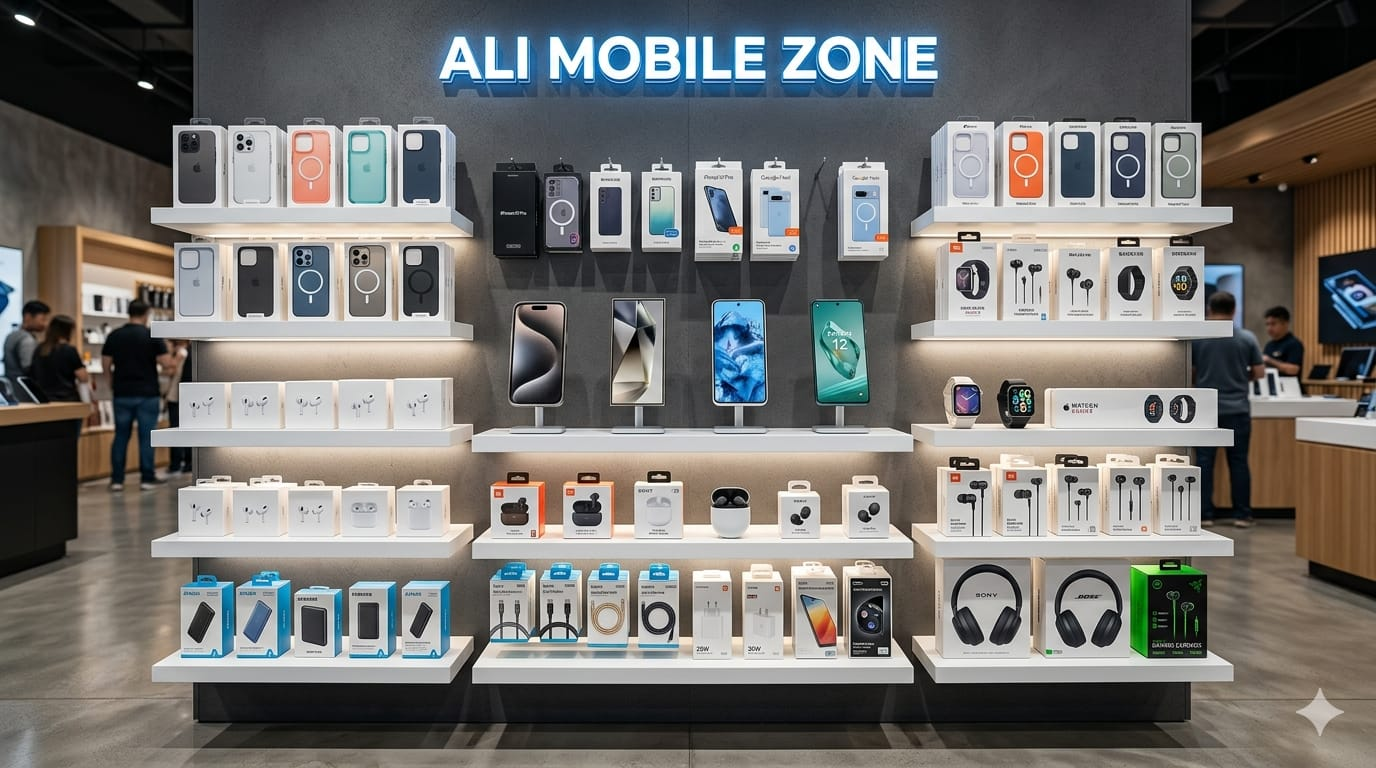
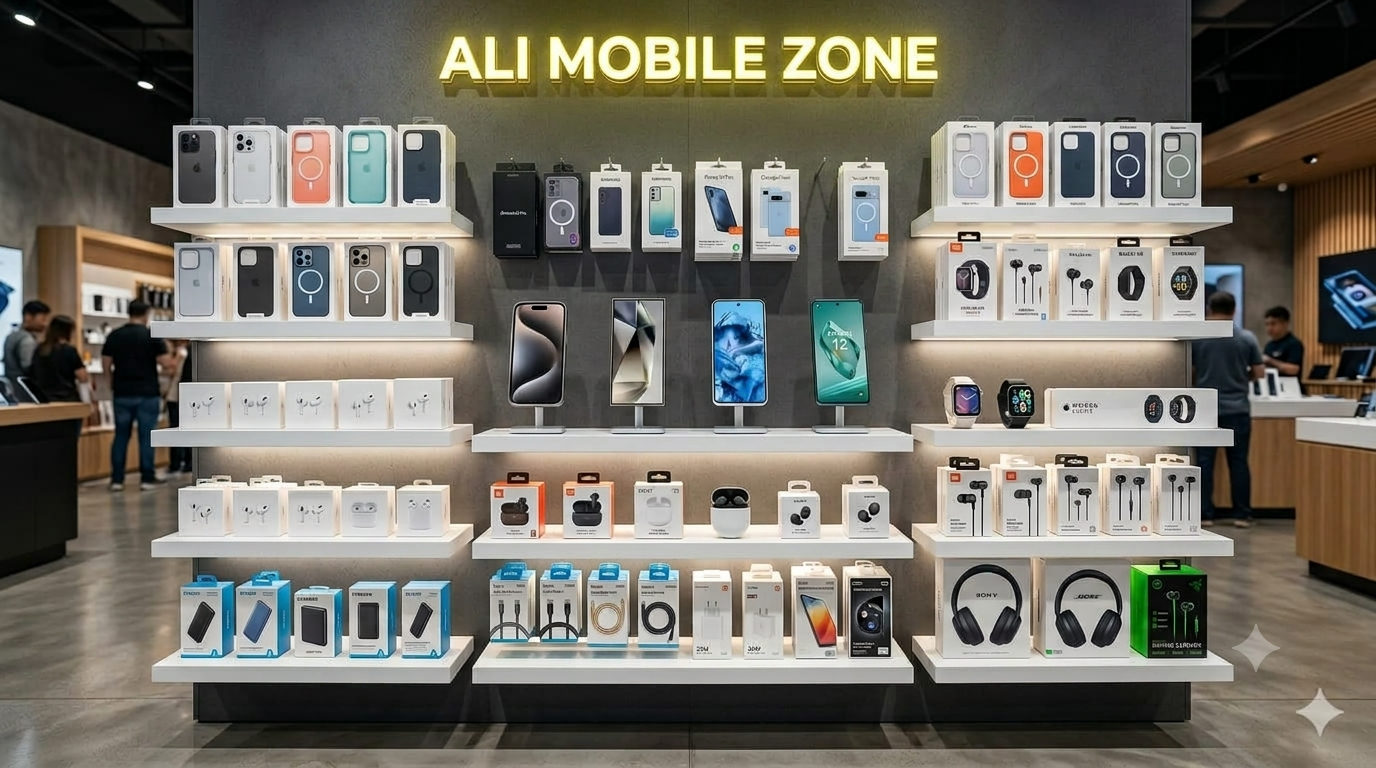
Add product variants, loading skeletons, and smooth page transitions

diff --git a/src/components/Skeleton.tsx b/src/components/Skeleton.tsx
@@ -1,0 +1,92 @@
+export function Skeleton({ className = "" }: { className?: string }) {
+  return (
+    <div
+      className={`animate-pulse rounded-xl bg-foreground/10 ${className}`}
+      style={{ animation: "skeleton-pulse 1.5s ease-in-out infinite" }}
+    />
+  );
+}
+
+export function ProductCardSkeleton() {
+  return (
+    <div className="rounded-2xl border border-glass-border glass-card overflow-hidden">
+      <Skeleton className="aspect-square rounded-none" />
+      <div className="space-y-2 p-4">
+        <Skeleton className="h-3 w-16" />
+        <Skeleton className="h-4 w-full" />
+        <Skeleton className="h-4 w-3/4" />
+        <div className="flex items-center justify-between pt-2">
+          <Skeleton className="h-5 w-20" />
+          <Skeleton className="h-8 w-8 rounded-lg" />
+        </div>
+      </div>
+    </div>
+  );
+}
+
+export function ProductDetailSkeleton() {
+  return (
+    <div className="bg-gradient-to-b from-secondary/40 to-background">
+      <div className="mx-auto max-w-7xl px-4 py-6">
+        <Skeleton className="mb-6 h-4 w-64" />
+        <div className="grid gap-8 md:grid-cols-2">
+          <div>
+            <Skeleton className="aspect-square rounded-2xl" />
+            <div className="mt-3 flex gap-2">
+              <Skeleton className="h-20 w-20 rounded-lg" />
+              <Skeleton className="h-20 w-20 rounded-lg" />
+              <Skeleton className="h-20 w-20 rounded-lg" />
+            </div>
+          </div>
+          <div className="space-y-4">
+            <Skeleton className="h-6 w-24" />
+            <Skeleton className="h-10 w-full" />
+            <Skeleton className="h-4 w-48" />
+            <Skeleton className="h-8 w-36" />
+            <Skeleton className="h-4 w-32" />
+            <div className="space-y-2 pt-4">
+              <Skeleton className="h-3 w-full" />
+              <Skeleton className="h-3 w-full" />
+              <Skeleton className="h-3 w-3/4" />
+            </div>
+            <div className="space-y-2 pt-4">
+              {[1, 2, 3, 4].map((i) => (
+                <Skeleton key={i} className="h-5 w-full" />
+              ))}
+            </div>
+            <div className="grid grid-cols-2 gap-2 pt-4">
+              {[1, 2, 3, 4].map((i) => (
+                <Skeleton key={i} className="h-12 rounded-lg" />
+              ))}
+            </div>
+            <div className="flex gap-4 pt-4">
+              <Skeleton className="h-12 flex-1 rounded-lg" />
+              <Skeleton className="h-12 flex-1 rounded-lg" />
+            </div>
+          </div>
+        </div>
+      </div>
+    </div>
+  );
+}
+
+export function ProductsPageSkeleton() {
+  return (
+    <div className="mx-auto max-w-7xl px-4 py-8">
+      <div className="mb-6">
+        <Skeleton className="h-8 w-48" />
+        <Skeleton className="mt-1 h-4 w-32" />
+      </div>
+      <div className="grid gap-6 md:grid-cols-[240px_1fr]">
+        <div className="hidden md:block space-y-4">
+          <Skeleton className="h-64 rounded-2xl" />
+        </div>
+        <div className="grid grid-cols-2 gap-4 md:grid-cols-3 lg:grid-cols-4">
+          {Array.from({ length: 8 }).map((_, i) => (
+            <ProductCardSkeleton key={i} />
+          ))}
+        </div>
+      </div>
+    </div>
+  );
+}

diff --git a/src/routes/products.$id.tsx b/src/routes/products.$id.tsx
@@ -19,10 +19,12 @@ import {
 import { toast } from "sonner";
 import { ProductImage } from "@/components/ProductImage";
 import { ProductCard } from "@/components/ProductCard";
+import { ProductDetailSkeleton } from "@/components/Skeleton";
 import { useCart, useProduct, useProducts, useWishlist, formatPrice } from "@/lib/store";
 import { waProduct } from "@/lib/whatsapp";
 
 export const Route = createFileRoute("/products/$id")({
+  pendingComponent: ProductDetailSkeleton,
   component: ProductDetail,
 });
 
@@ -153,8 +155,15 @@ function ProductDetail() {
   const { add } = useCart();
   const { has, toggle } = useWishlist();
   const [qty, setQty] = useState(1);
+  const [selectedVariant, setSelectedVariant] = useState(0);
 
   if (!product) throw notFound();
+
+  const variants = product.variants;
+  const activeVariant = variants?.[selectedVariant];
+  const displayPrice = activeVariant?.price ?? product.price;
+  const displayStock = activeVariant?.stock ?? product.stock;
+  const displayImage = activeVariant?.image ?? product.image;
 
   const detail = PRODUCT_DETAILS[product.id];
   const longDesc = detail?.description ?? product.description;
@@ -170,8 +179,8 @@ function ProductDetail() {
     .slice(0, 4);
   const wished = has(product.id);
 
-  const originalPrice = Math.round(product.price / 0.9);
-  const savings = originalPrice - product.price;
+  const originalPrice = Math.round(displayPrice / 0.9);
+  const savings = originalPrice - displayPrice;
 
   return (
     <div className="bg-gradient-to-b from-secondary/40 to-background">
@@ -210,7 +219,7 @@ function ProductDetail() {
               </button>
               <div className="aspect-square overflow-hidden">
                 <ProductImage
-                  src={product.image}
+                  src={displayImage}
                   alt={product.name}
                   className="h-full w-full object-contain p-8 transition-transform duration-500 group-hover:scale-110"
                 />
@@ -220,7 +229,7 @@ function ProductDetail() {
             <div className="mt-3 flex gap-2">
               <div className="h-20 w-20 overflow-hidden rounded-lg border-2 border-gold bg-background/50">
                 <ProductImage
-                  src={product.image}
+                  src={displayImage}
                   alt={product.name}
                   className="h-full w-full object-contain p-2"
                 />
@@ -237,6 +246,33 @@ function ProductDetail() {
               {product.name}
             </h1>
 
+            {variants && variants.length > 0 && (
+              <div className="mt-4">
+                <p className="mb-2 text-xs font-bold uppercase tracking-wider text-foreground">
+                  {variants[0].label.includes("Strap") ? "Strap Color" : "Color"}:
+                  <span className="ml-1 text-amber">{activeVariant?.label}</span>
+                </p>
+                <div className="flex flex-wrap gap-2">
+                  {variants.map((v, idx) => (
+                    <button
+                      key={v.label}
+                      onClick={() => setSelectedVariant(idx)}
+                      className={`rounded-lg border px-4 py-2 text-xs font-bold transition-all ${
+                        idx === selectedVariant
+                          ? "border-amber bg-amber text-navy shadow-[0_0_12px_color-mix(in_oklab,_var(--amber),_30%)]"
+                          : "border-glass-border bg-background/50 text-foreground hover:border-amber/40 hover:bg-amber/10"
+                      }`}
+                    >
+                      {v.label}
+                      {v.price && v.price !== product.price && (
+                        <span className="ml-1">(+Rs.{v.price - product.price})</span>
+                      )}
+                    </button>
+                  ))}
+                </div>
+              </div>
+            )}
+
             {/* Rating */}
             <div className="mt-3 flex items-center gap-2">
               <div className="flex">
@@ -252,7 +288,7 @@ function ProductDetail() {
             {/* Price */}
             <div className="mt-5 flex flex-wrap items-baseline gap-3">
               <span className="text-4xl font-extrabold text-foreground">
-                {formatPrice(product.price)}
+                {formatPrice(displayPrice)}
               </span>
               <span className="text-lg text-muted-foreground line-through">
                 {formatPrice(originalPrice)}
@@ -262,10 +298,10 @@ function ProductDetail() {
               </span>
             </div>
             <div className="mt-1 text-sm">
-              {product.stock > 5 ? (
+              {displayStock > 5 ? (
                 <span className="font-bold text-amber">✓ In Stock — Ready to ship</span>
-              ) : product.stock > 0 ? (
-                <span className="font-bold text-destructive">Hurry! Only {product.stock} left</span>
+              ) : displayStock > 0 ? (
+                <span className="font-bold text-destructive">Hurry! Only {displayStock} left</span>
               ) : (
                 <span className="font-bold text-destructive">Out of Stock</span>
               )}
@@ -332,7 +368,7 @@ function ProductDetail() {
             {/* CTAs */}
             <div className="mt-4 flex flex-col gap-2 sm:flex-row">
               <button
-                disabled={product.stock === 0}
+                disabled={displayStock === 0}
                 onClick={() => {
                   add(product.id, qty);
                   toast.success(`Added ${qty} to cart 🛒`);

diff --git a/src/lib/products.ts b/src/lib/products.ts
@@ -1,3 +1,10 @@
+export type ProductVariant = {
+  label: string;
+  price?: number;
+  stock?: number;
+  image?: string;
+};
+
 export type Product = {
   id: string;
   name: string;
@@ -7,6 +14,7 @@ export type Product = {
   image: string;
   stock: number;
   description: string;
+  variants?: ProductVariant[];
 };
 
 export const PRODUCTS_VERSION = 2;
@@ -1329,6 +1337,11 @@ export const SEED_PRODUCTS: Product[] = [
     image: "https://img.drz.lazcdn.com/g/kf/Sa7184fc13fda46a3b92030daebce3985L.jpg_720x720q80.jpg_.webp",
     stock: 12,
     description: "T800 Ultra smart watch with premium design and features.",
+    variants: [
+      { label: "Black Strap", stock: 5 },
+      { label: "Silver Strap", stock: 4 },
+      { label: "Gold Strap", stock: 3 },
+    ],
   },
   {
     id: "t900-ultra",
@@ -1481,6 +1494,12 @@ export const SEED_PRODUCTS: Product[] = [
     image: "https://img.drz.lazcdn.com/static/pk/p/bb72437261ce32e7070c8e95d229d5ed.jpg_720x720q80.jpg_.webp",
     stock: 40,
     description: "Soft silicone case for everyday protection.",
+    variants: [
+      { label: "Black", stock: 15 },
+      { label: "Clear", stock: 10 },
+      { label: "Blue", stock: 8 },
+      { label: "Pink", stock: 7 },
+    ],
   },
   {
     id: "transparent-case",

diff --git a/src/routes/admin.tsx b/src/routes/admin.tsx
@@ -375,6 +375,21 @@ function ProductForm({
               className="w-full rounded-lg border border-border px-3 py-2 text-sm outline-none focus:border-gold"
             />
           </Field>
+          <Field label="Variants (comma-separated labels, optional)">
+            <input
+              value={p.variants?.map((v) => v.label).join(", ") ?? ""}
+              onChange={(e) =>
+                setP({
+                  ...p,
+                  variants: e.target.value
+                    ? e.target.value.split(",").map((s) => ({ label: s.trim() }))
+                    : undefined,
+                })
+              }
+              placeholder="Black, White, Blue"
+              className="w-full rounded-lg border border-border px-3 py-2 text-sm outline-none focus:border-gold"
+            />
+          </Field>
         </div>
         <div className="mt-5 flex gap-2">
           <button

diff --git a/src/components/Layout.tsx b/src/components/Layout.tsx
@@ -113,13 +113,13 @@ function Navbar() {
             to="/tell-us-your-model"
             className="hidden rounded-lg px-3 py-2 text-sm font-medium text-foreground hover:bg-secondary lg:block"
           >
-            Mobile Covers
+            Phone Cases
           </Link>
           <Link
             to="/tell-us-your-model"
             className="hidden rounded-lg px-3 py-2 text-sm font-medium text-foreground hover:bg-secondary lg:block"
           >
-            Protection
+            Screen Protection
           </Link>
           <Link
             to="/contact"
@@ -195,7 +195,7 @@ function Navbar() {
               onClick={() => setOpen(false)}
               className="rounded-lg px-3 py-2 text-sm font-medium text-foreground hover:bg-secondary"
             >
-              Mobile Covers
+              Phone Cases
             </Link>
             <Link
               to="/tell-us-your-model"
@@ -286,10 +286,10 @@ function Footer() {
               <Link to="/cart" className="transition-colors hover:text-amber">Cart</Link>
             </li>
             <li>
-              <Link to="/tell-us-your-model" className="transition-colors hover:text-amber">Mobile Covers</Link>
+              <Link to="/tell-us-your-model" className="transition-colors hover:text-amber">Phone Cases</Link>
             </li>
             <li>
-              <Link to="/tell-us-your-model" className="transition-colors hover:text-amber">Protection</Link>
+              <Link to="/tell-us-your-model" className="transition-colors hover:text-amber">Screen Protection</Link>
             </li>
             <li>
               <Link to="/contact" className="transition-colors hover:text-amber">Contact</Link>
@@ -421,7 +421,9 @@ export function Layout({ children }: { children: ReactNode }) {
       <Particles />
       {!isAdmin && <AnnouncementBar />}
       {!isAdmin && <Navbar />}
-      <main className="flex-1 relative z-[1]">{children}</main>
+      <main className="flex-1 relative z-[1]">
+        <div key={path} className="page-enter">{children}</div>
+      </main>
       {!isAdmin && <Footer />}
       <FloatingWhatsApp />
     </div>

diff --git a/src/styles.css b/src/styles.css
@@ -425,3 +425,16 @@
   *, *::before, *::after { animation-duration: 0.001ms !important; animation-iteration-count: 1 !important; transition-duration: 0.001ms !important; }
   .reveal, .reveal-left, .reveal-pop, .reveal-right, .reveal-scale { opacity: 1 !important; transform: none !important; }
 }
+
+/* ─── Skeleton Pulse ─── */
+@keyframes skeleton-pulse {
+  0%, 100% { opacity: 0.4; }
+  50% { opacity: 0.1; }
+}
+
+/* ─── Page Transitions ─── */
+.page-enter { animation: page-enter 0.35s ease-out both; }
+@keyframes page-enter {
+  from { opacity: 0; transform: translateY(12px); }
+  to { opacity: 1; transform: translateY(0); }
+}

diff --git a/src/components/HeroFx.tsx b/src/components/HeroFx.tsx
@@ -24,7 +24,7 @@ function Particles() {
             left: `${b.left}%`,
             width: b.size,
             height: b.size,
-              background: b.gold ? "#D97706" : "#78350F",
+            background: b.gold ? "#D97706" : "#78350F",
             ["--bubble-dur" as never]: `${b.dur}s`,
             ["--bubble-op" as never]: b.op,
             animationDelay: `${b.delay}s`,
@@ -39,7 +39,7 @@ function FloatingCover() {
   return (
     <div
       aria-hidden
-      className="pointer-events-none absolute left-2 top-1/2 z-[1] hidden -translate-y-1/2 md:block"
+      className="pointer-events-none absolute right-2 top-1/2 z-[1] hidden -translate-y-1/2 md:block"
     >
       <div className="animate-float-cover drop-shadow-[0_20px_30px_rgba(120,53,15,0.35)]">
         <svg width="90" height="160" viewBox="0 0 90 160" fill="none">

diff --git a/src/routes/products.tsx b/src/routes/products.tsx
@@ -5,6 +5,7 @@ import { ProductCard } from "@/components/ProductCard";
 import { useProducts } from "@/lib/store";
 import { CATEGORIES } from "@/lib/products";
 import { SlidersHorizontal, X } from "lucide-react";
+import { ProductsPageSkeleton } from "@/components/Skeleton";
 
 const searchSchema = z.object({
   q: z.string().optional(),
@@ -24,6 +25,7 @@ export const Route = createFileRoute("/products")({
       },
     ],
   }),
+  pendingComponent: ProductsPageSkeleton,
   component: ProductsPage,
 });
 